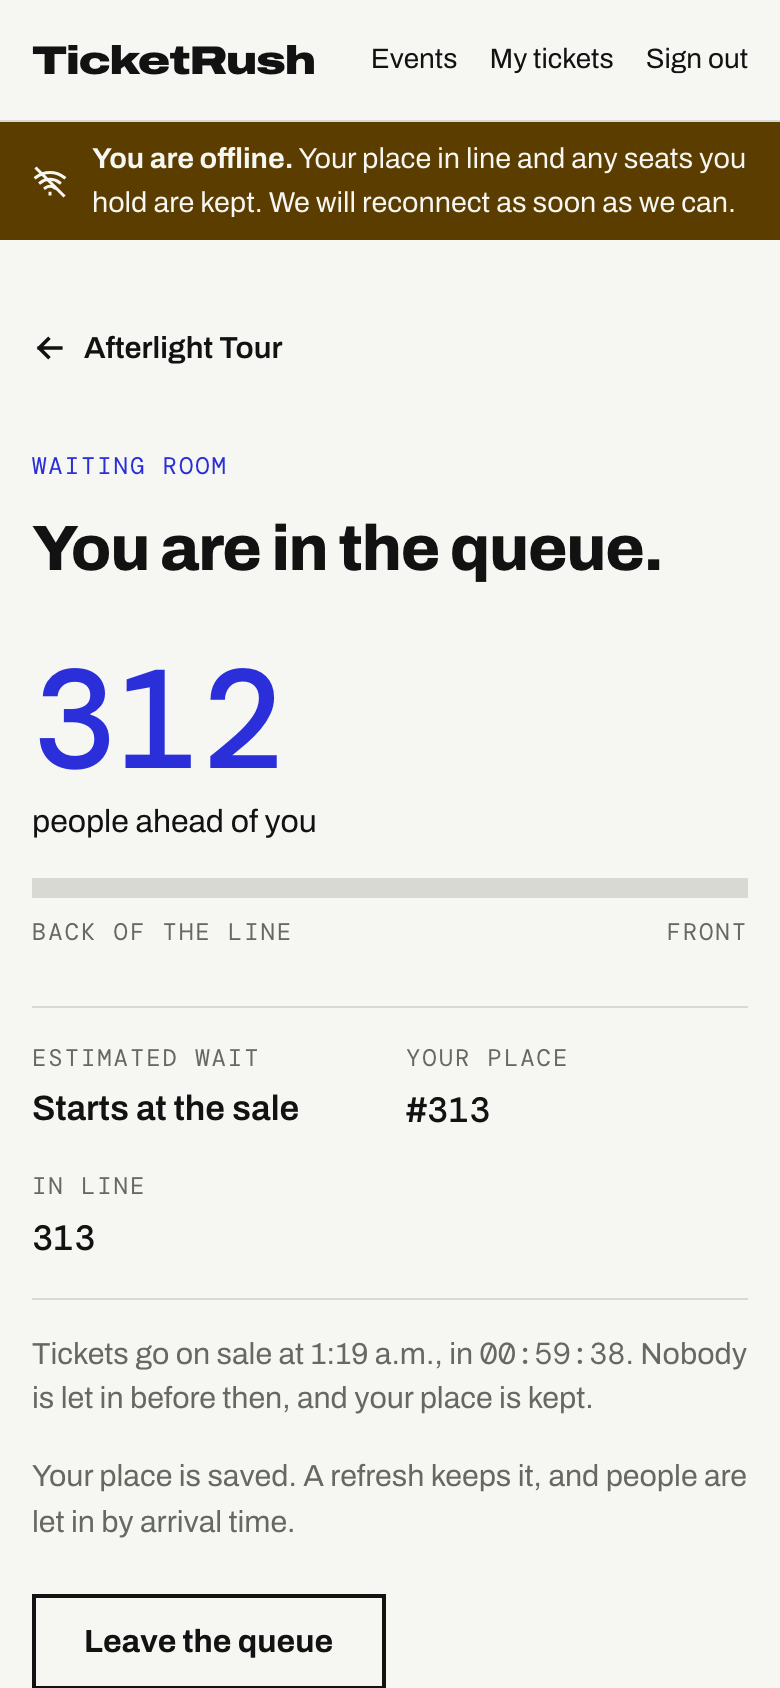
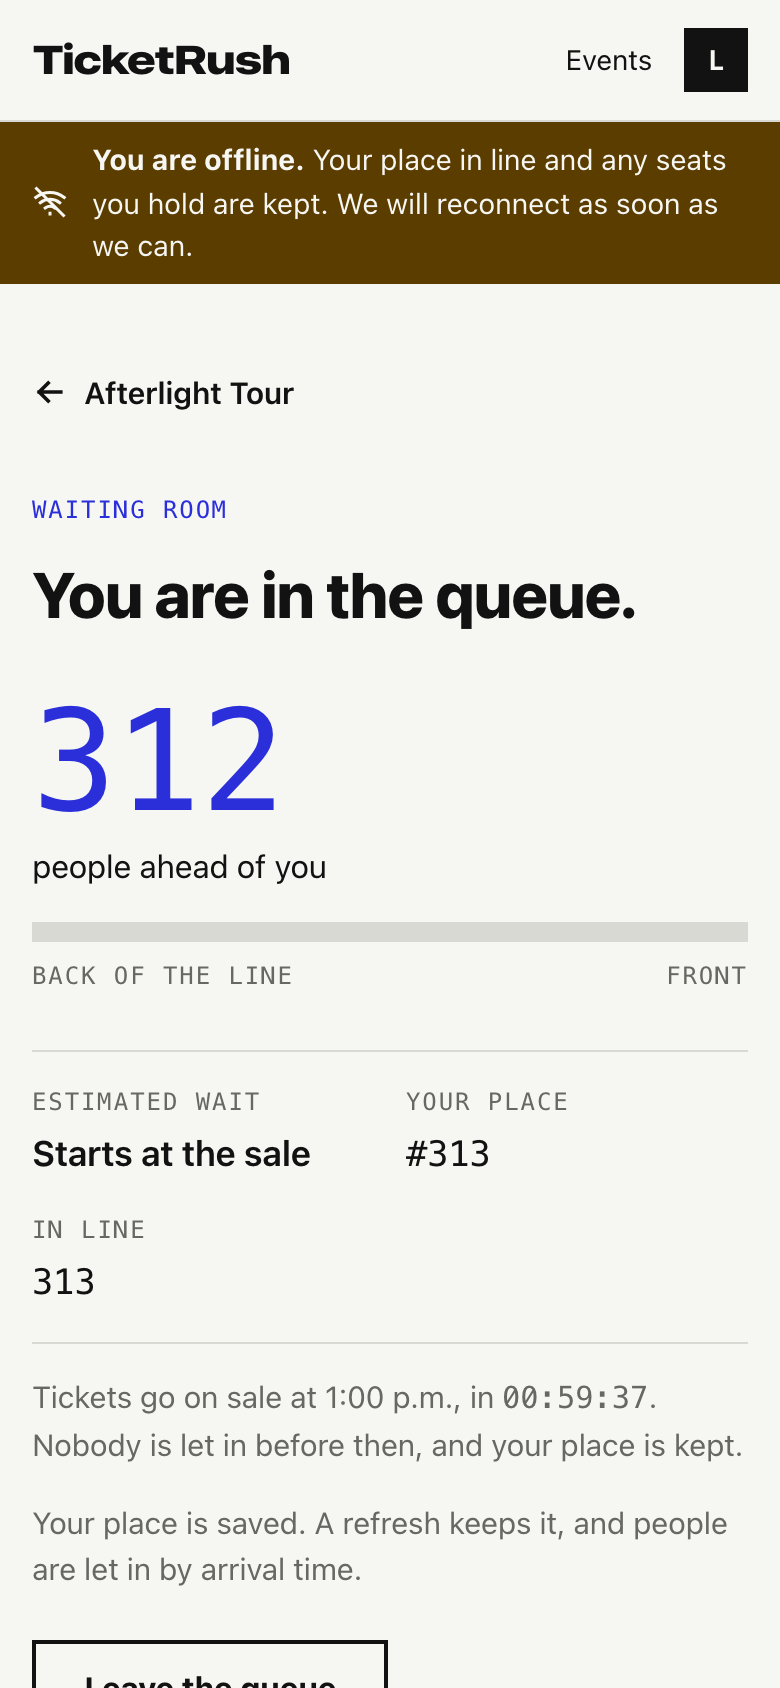
docs: refresh the README and regenerate every screenshot
The screenshots were stale (the account menu, the fixed footer links, the hold clock on checkout,
Stripe's card form didn't appear in any of them) and the README still said 'Work in progress' and the
wrong coverage gate (95% was never the number; the pom has always gated 93% lines / 82% branches).

- Regenerated all 14 README screenshots against the current UI
- Fixed a real bug in scripts/screenshots.ts while doing it: the checkout screenshot was taken mid
  view-transition (the seats page and the checkout page double-exposed in one frame) because the script
  didn't wait for the page to settle after the navigation
- Reworded the intro: the project is no longer 'in progress' in the way that line suggested (payments,
  email, security scanning, legal/account pages have shipped since); named Stripe, Turnstile, Resend and
  the security scans in the Stack section, where a reader scanning quickly would look for them first
- Corrected the JaCoCo gate number and verified every doc link in the README still resolves

No license file added; the user was asked and chose to skip it for now.

diff --git a/frontend/scripts/screenshots.ts b/frontend/scripts/screenshots.ts
@@ -105,6 +105,8 @@ await shoot('checkout', 1280, 800, async (page) => {
   await chooseFree(page, 'C', 2)
   await page.getByRole('button', { name: 'Hold these 2 seats' }).click()
   await page.waitForURL('**/checkout')
+  await page.getByRole('heading', { name: 'Checkout' }).waitFor()
+  await page.waitForTimeout(700) // the seat map glides into the checkout summary; let it finish before the picture
   await page.getByLabel('Card number').fill('4242424242424242')
   await page.getByLabel('Expiry').fill('1234')
   await page.getByLabel('Security code').fill('123')

diff --git a/README.md b/README.md
@@ -4,14 +4,16 @@
 
 Flash-sale ticketing that stays correct under a traffic spike: a waiting room, live seat maps, timed seat holds, and zero oversold seats, backed by a published load test.
 
-> Work in progress. Done: sign-in, the event and seat catalog, seat holds, the waiting room, checkout and tickets, a load test with published results, the guest web app, and the organizer console. It is live at https://ticketrush-web.fly.dev (demo data, mock payments; [how it is deployed](docs/deploy.md)).
+> End to end: sign-in and account recovery, the event and seat catalog, seat holds, the waiting room, checkout and tickets, cancellations and refunds, the organizer console, email, and a load test with published results. It is live at https://ticketrush-web.fly.dev ([how it is deployed](docs/deploy.md)) — demo data, and payments are in Stripe's test mode (no real charge is ever made; see [what it would still take to open this to the public](docs/adr/0009-ready-for-the-public.md)).
 
 ## Stack
 
 - **Backend:** Java 21 (virtual threads), Spring Boot 4, Spring Security with JWT, PostgreSQL 16, Redis 7, Flyway
+- **Payments, bots and email:** Stripe (test mode; a mock provider stands in otherwise), Cloudflare Turnstile at sign-up, Resend for transactional email
 - **Deployment:** Docker images, nginx, Fly.io (two apps, the API private), a smoke test for what must be closed
 - **Frontend:** React 19, TypeScript (strict), Vite, React Router, TanStack Query, plain CSS, served by nginx. Types are generated from the backend's OpenAPI document
-- **Quality:** JUnit 5, Testcontainers, ArchUnit, JaCoCo (95% of lines, gated), Vitest and Testing Library, Playwright and axe, k6, Prometheus and Grafana, GitHub Actions
+- **Quality:** JUnit 5, Testcontainers, ArchUnit, JaCoCo (93% of lines / 82% of branches, gated), Vitest and Testing Library, Playwright and axe, k6, Prometheus and Grafana, GitHub Actions
+- **Security:** Trivy scans of both images and the repository, a ZAP baseline scan of the running app, and a test that every endpoint's access rules agree with a single list of who may call it — all on every pull request and weekly
 
 ## Run locally
 
